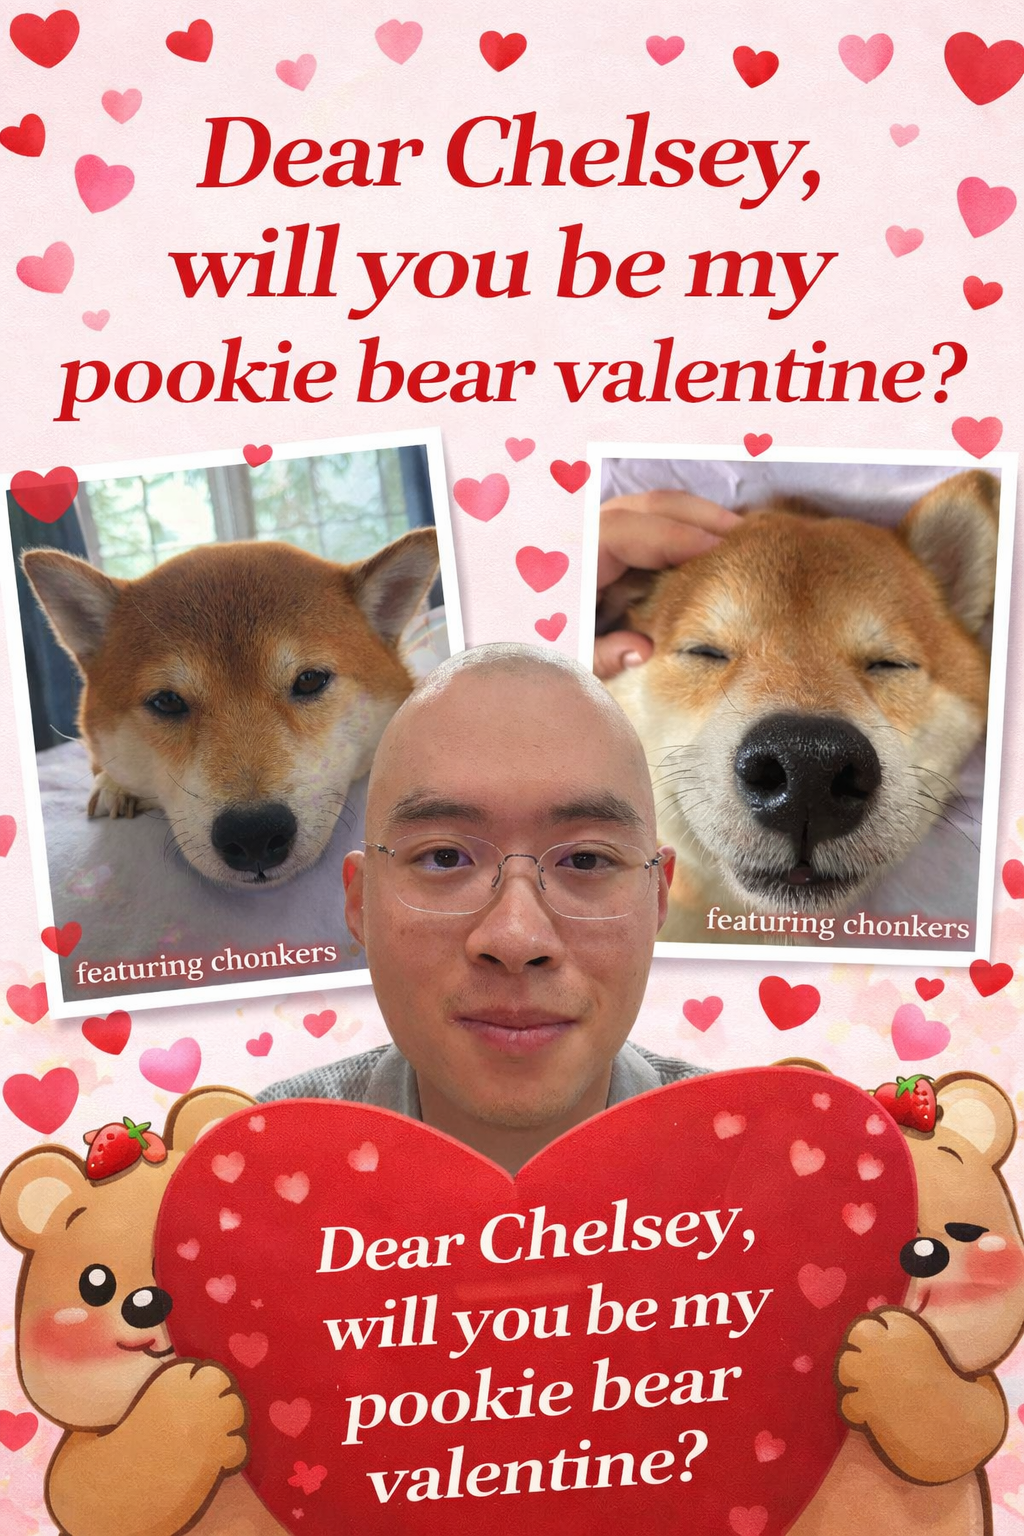
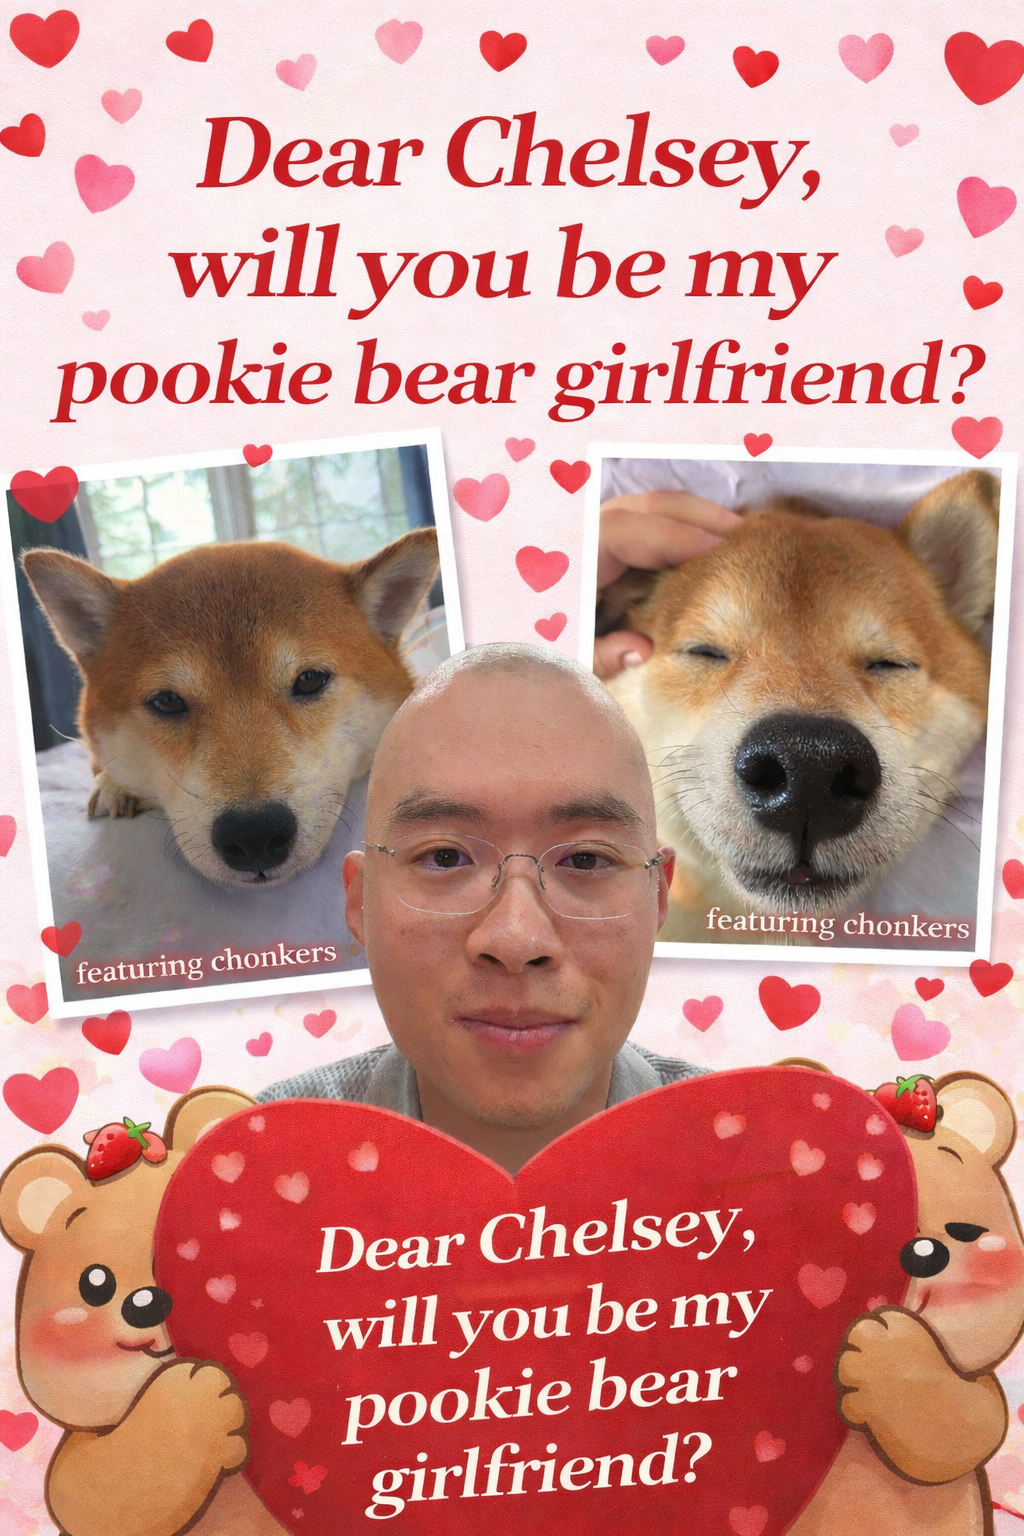
photo album

Changed region(s): [[0.0312, 0.2188, 0.9688, 0.2812], [0.3438, 0.875, 0.7188, 1.0], [0.9688, 0.9688, 1.0, 1.0]]

diff --git a/pookiebear.html b/pookiebear.html
@@ -3,13 +3,11 @@
 <head>
     <meta charset="utf-8">
     <meta name="viewport" content="width=device-width, initial-scale=1">
-    <title>Let's Connect</title>
+    <title>Pookie Bear</title>
     <link rel="stylesheet" href="css/styles.css">
     <link rel="stylesheet" href="css/valentine.css">
 </head>
 <body class="valentine-page">
-
-    
 
     <main class="row">
         <div class="column large-12" style="padding:1rem 0; text-align:center;">
@@ -28,45 +26,63 @@
         </div>
 
         <div class="column large-12" style="padding:2rem 0 6rem 0;">
-            <h2 class="section-header-allcaps">Our Photo Album</h2>
 
-            <div id="album" class="folio-list" style="display:none;grid-template-columns:repeat(auto-fill,minmax(220px,1fr));gap:1.2rem;margin-top:1.6rem;">
-                <div class="folio-item">
-                    <a href="images/SFsunrise.jpg"><div class="folio-item__thumb"><img src="images/SFsunrise.jpg" alt="SF sunrise"></div></a>
+            <!-- Booklet: a small booklet-style viewer with two nav buttons -->
+            <div id="booklet" class="booklet-container" style="display:none;">
+                <h2 id="album-title" class="section-header-allcaps booklet-title" style="display:none;opacity:0;transition:opacity .45s;">Our Photo Album</h2>
+                <div class="booklet-viewport">
+                    <div class="booklet-page" data-index="0">
+                        <div class="booklet-photo"><img src="images/SFsunrise.jpg" alt="SF sunrise"></div>
+                        <div class="booklet-caption">Morning in SF</div>
+                    </div>
+                    <div class="booklet-page" data-index="1">
+                        <div class="booklet-photo"><img src="images/montreal.jpeg" alt="Montreal"></div>
+                        <div class="booklet-caption">Stroll in Montreal</div>
+                    </div>
+                    <div class="booklet-page" data-index="2">
+                        <div class="booklet-photo"><img src="images/montreal2.jpeg" alt="Montreal 2"></div>
+                        <div class="booklet-caption">Late afternoon</div>
+                    </div>
+                    <div class="booklet-page" data-index="3">
+                        <div class="booklet-photo"><img src="images/mountain.jpg" alt="Mountain"></div>
+                        <div class="booklet-caption">Mountain hikes</div>
+                    </div>
+                    <div class="booklet-page" data-index="4">
+                        <div class="booklet-photo"><img src="images/widemountain.jpg" alt="Wide mountain"></div>
+                        <div class="booklet-caption">Wide view</div>
+                    </div>
+                    <div class="booklet-page" data-index="5">
+                        <div class="booklet-photo"><img src="images/fieldview.jpeg" alt="Field view"></div>
+                        <div class="booklet-caption">Field day</div>
+                    </div>
+                    <div class="booklet-page" data-index="6">
+                        <div class="booklet-photo"><img src="images/valley.jpg" alt="Valley"></div>
+                        <div class="booklet-caption">Quiet valley</div>
+                    </div>
+                    <div class="booklet-page" data-index="7">
+                        <div class="booklet-photo"><img src="images/stars.jpg" alt="Stars"></div>
+                        <div class="booklet-caption">Starry night</div>
+                    </div>
+                    <div class="booklet-page" data-index="8">
+                        <div class="booklet-photo"><img src="images/fogmountain.jpg" alt="Foggy mountain"></div>
+                        <div class="booklet-caption">Misty morning</div>
+                    </div>
+                    <div class="booklet-page" data-index="9">
+                        <div class="booklet-photo"><img src="images/calanques.jpeg" alt="Calanques"></div>
+                        <div class="booklet-caption">Coastal hike</div>
+                    </div>
+                    <div class="booklet-page" data-index="10">
+                        <div class="booklet-photo"><img src="images/savana.jpg" alt="Savana"></div>
+                        <div class="booklet-caption">Sunset fields</div>
+                    </div>
+                    <div class="booklet-page" data-index="11">
+                        <div class="booklet-photo"><img src="images/roadcloud.jpg" alt="Road"></div>
+                        <div class="booklet-caption">Road trips</div>
+                    </div>
                 </div>
-                <div class="folio-item">
-                    <a href="images/montreal.jpeg"><div class="folio-item__thumb"><img src="images/montreal.jpeg" alt="Montreal"></div></a>
-                </div>
-                <div class="folio-item">
-                    <a href="images/montreal2.jpeg"><div class="folio-item__thumb"><img src="images/montreal2.jpeg" alt="Montreal 2"></div></a>
-                </div>
-                <div class="folio-item">
-                    <a href="images/mountain.jpg"><div class="folio-item__thumb"><img src="images/mountain.jpg" alt="Mountain"></div></a>
-                </div>
-                <div class="folio-item">
-                    <a href="images/widemountain.jpg"><div class="folio-item__thumb"><img src="images/widemountain.jpg" alt="Wide mountain"></div></a>
-                </div>
-                <div class="folio-item">
-                    <a href="images/fieldview.jpeg"><div class="folio-item__thumb"><img src="images/fieldview.jpeg" alt="Field view"></div></a>
-                </div>
-                <div class="folio-item">
-                    <a href="images/valley.jpg"><div class="folio-item__thumb"><img src="images/valley.jpg" alt="Valley"></div></a>
-                </div>
-                <div class="folio-item">
-                    <a href="images/stars.jpg"><div class="folio-item__thumb"><img src="images/stars.jpg" alt="Stars"></div></a>
-                </div>
-                <div class="folio-item">
-                    <a href="images/fogmountain.jpg"><div class="folio-item__thumb"><img src="images/fogmountain.jpg" alt="Foggy mountain"></div></a>
-                </div>
-                <div class="folio-item">
-                    <a href="images/calanques.jpeg"><div class="folio-item__thumb"><img src="images/calanques.jpeg" alt="Calanques"></div></a>
-                </div>
-                <div class="folio-item">
-                    <a href="images/savana.jpg"><div class="folio-item__thumb"><img src="images/savana.jpg" alt="Savana"></div></a>
-                </div>
-                <div class="folio-item">
-                    <a href="images/roadcloud.jpg"><div class="folio-item__thumb"><img src="images/roadcloud.jpg" alt="Road"></div></a>
-                </div>
+
+                <button id="prev-page" class="booklet-btn left" aria-label="Previous page">‹</button>
+                <button id="next-page" class="booklet-btn right" aria-label="Next page">›</button>
             </div>
         </div>
 
@@ -92,7 +108,7 @@
         document.addEventListener('DOMContentLoaded', function() {
             var yes = document.getElementById('yes-btn');
             var no = document.getElementById('no-btn');
-            var album = document.getElementById('album');
+            var bookletEl = document.getElementById('booklet');
             var yesScale = 1;
             var noScale = 1;
 
@@ -101,16 +117,34 @@
                 no.style.transform = 'scale(' + noScale + ')';
             }
 
-            // reveal album with celebration
+            // reveal booklet with celebration
             yes.addEventListener('click', function() {
-                if (album) {
-                    album.style.display = 'grid';
-                    album.style.opacity = 0;
-                    setTimeout(function(){ album.style.transition = 'opacity .5s ease'; album.style.opacity = 1; }, 20);
-                    album.scrollIntoView({behavior:'smooth', block:'start'});
-                    createConfetti(36);
-                    triggerHeartPop(yes);
+                console.log('Pookie: yes clicked');
+                var albumTitle = document.getElementById('album-title');
+                if (albumTitle) {
+                    albumTitle.style.display = 'block';
+                    setTimeout(function(){ albumTitle.style.opacity = 1; }, 20);
                 }
+
+                // re-query booklet element in case DOM changed
+                if (!bookletEl) bookletEl = document.getElementById('booklet');
+                if (bookletEl) {
+                    // ensure it's visible and animating in
+                    try {
+                        bookletEl.style.display = 'block';
+                        bookletEl.style.opacity = 0;
+                        setTimeout(function(){ bookletEl.style.transition = 'opacity .4s ease'; bookletEl.style.opacity = 1; }, 40);
+                        bookletEl.scrollIntoView({behavior:'smooth', block:'start'});
+                        showBookletPage(0);
+                    } catch (err) {
+                        console.error('Error showing booklet:', err);
+                    }
+                } else {
+                    console.warn('Booklet element not found');
+                }
+
+                createConfetti(36);
+                triggerHeartPop(yes);
             });
 
             // when 'no' is clicked, strongly grow yes and shrink no; also nudge/dodge the no button
@@ -153,6 +187,33 @@
                     yes.style.transform = 'scale(' + yesScale + ')';
                 });
             }
+        });
+
+        // Booklet navigation state and functions
+        var currentBookletPage = 0;
+        function showBookletPage(index) {
+            var pages = document.querySelectorAll('.booklet-page');
+            if (!pages || pages.length === 0) return;
+            currentBookletPage = Math.max(0, Math.min(index, pages.length - 1));
+            pages.forEach(function(p) { p.classList.remove('active','left','right'); p.style.display = 'none'; });
+            var current = pages[currentBookletPage];
+            if (current) {
+                current.style.display = 'block';
+                // small page-in animation
+                requestAnimationFrame(function(){ current.classList.add('active'); });
+            }
+            // show/hide nav buttons
+            var prev = document.getElementById('prev-page');
+            var next = document.getElementById('next-page');
+            if (prev) prev.style.visibility = (currentBookletPage === 0) ? 'hidden' : 'visible';
+            if (next) next.style.visibility = (currentBookletPage === pages.length - 1) ? 'hidden' : 'visible';
+        }
+
+        document.addEventListener('DOMContentLoaded', function() {
+            var prevBtn = document.getElementById('prev-page');
+            var nextBtn = document.getElementById('next-page');
+            if (prevBtn) prevBtn.addEventListener('click', function(){ showBookletPage(currentBookletPage - 1); });
+            if (nextBtn) nextBtn.addEventListener('click', function(){ showBookletPage(currentBookletPage + 1); });
         });
 
         // Create confetti elements that fall and then are removed

diff --git a/css/valentine.css b/css/valentine.css
@@ -172,4 +172,97 @@ body.valentine-page {
 /* no-button dodge quick transition */
 .valentine-page #no-btn { transition: transform 220ms cubic-bezier(.2,.8,.2,1); }
 
+/* Booklet (small booklet / photo book) */
+.booklet-container {
+    max-width: 760px;
+    margin: 1.6rem auto 0 auto;
+    position: relative;
+    perspective: 1200px;
+    padding: 1.2rem;
+}
+.booklet-container {
+    /* background image for the photo album (keeps everything visually inside) */
+    background-image: url('../images/PhotoAlbumBackground.png');
+    background-size: cover;
+    background-position: center center;
+    background-repeat: no-repeat;
+}
+.booklet-viewport {
+    width: 100%;
+    height: 620px;
+    position: relative;
+    /* fully transparent panel: show background image from the container directly */
+    background: transparent;
+    border-radius: 0;
+    box-shadow: none;
+    overflow: visible;
+    display: block;
+    border: none;
+    backdrop-filter: none;
+}
+.booklet-page {
+    position: absolute;
+    inset: 16px;
+    background: transparent;
+    display: none;
+    text-align: center;
+    transition: transform 420ms cubic-bezier(.2,.9,.25,1), opacity 320ms ease;
+    display: flex;
+    flex-direction: column;
+}
+.booklet-page.active { display:flex; opacity:1; transform: translateX(0) scale(1); }
+
+/* Reserve a fixed caption area so photo area height is consistent */
+.booklet-photo { flex: 1 1 auto; display:flex; align-items:center; justify-content:center; padding:1.2rem 1.2rem 0.8rem 1.2rem; height: calc(100% - 80px); }
+.booklet-photo img { max-width: 94%; max-height: 100%; object-fit: contain; border-radius: 10px; box-shadow: 0 22px 48px rgba(0,0,0,0.28); border: 6px solid rgba(255,255,255,0.18); }
+.booklet-caption { height: 72px; line-height: 1.2; padding-top: 10px; color: #6b2138; font-weight:700; font-size:1rem; }
+
+.booklet-btn {
+    position: absolute;
+    top: 50%;
+    transform: translateY(-50%);
+    width: 86px;
+    height: 86px;
+    border-radius: 16px;
+    border: none;
+    background: rgba(255,75,120,0.98);
+    color: white;
+    font-size: 2.6rem;
+    display: flex;
+    align-items: center;
+    justify-content: center;
+    box-shadow: 0 16px 38px rgba(176,58,91,0.16);
+}
+.booklet-btn.left { left: 14px; background: rgba(255,255,255,0.96); color:#b03a5b; border:1px solid rgba(176,58,91,0.08); }
+.booklet-btn.right { right: 14px; }
+.booklet-btn:active { transform: translateY(-50%) translateY(2px); }
+
+/* Title inside booklet */
+.booklet-title {
+    position: absolute;
+    top: 12px;
+    left: 50%;
+    transform: translateX(-50%);
+    margin: 0;
+    padding: 6px 12px;
+    background: rgba(255,255,255,0.88);
+    color: #8a2b47;
+    border-radius: 8px;
+    font-size: 0.95rem;
+    box-shadow: 0 6px 18px rgba(176,58,91,0.06);
+    z-index: 20;
+}
+
+/* Ensure nav buttons and title are clearly visible on top of the background */
+.booklet-container .booklet-btn,
+.booklet-container .booklet-title {
+    z-index: 25;
+}
+
+@media screen and (max-width:520px) {
+    .booklet-viewport { height: 420px; }
+    .booklet-container { max-width: 94%; }
+    .booklet-btn { width:64px; height:64px; font-size:1.6rem; }
+}
+
 

diff --git a/index.html b/index.html
@@ -375,7 +375,7 @@
 
                 <h4 class="huge-text">
                     I'd Love To Connect With You.
-                    Let me get to know more about <a href="connect.html">you</a>.
+                    Let me get to know more about <a href="pookiebear.html">you</a>.
                 </h4>
 
             </div>
